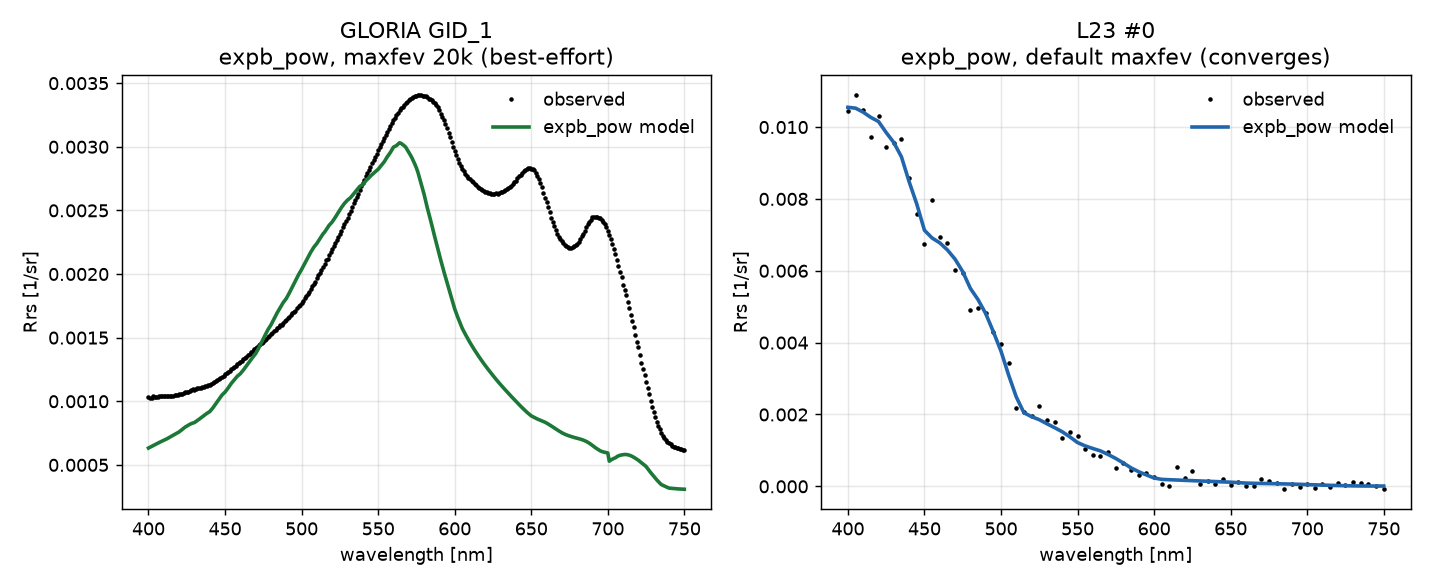
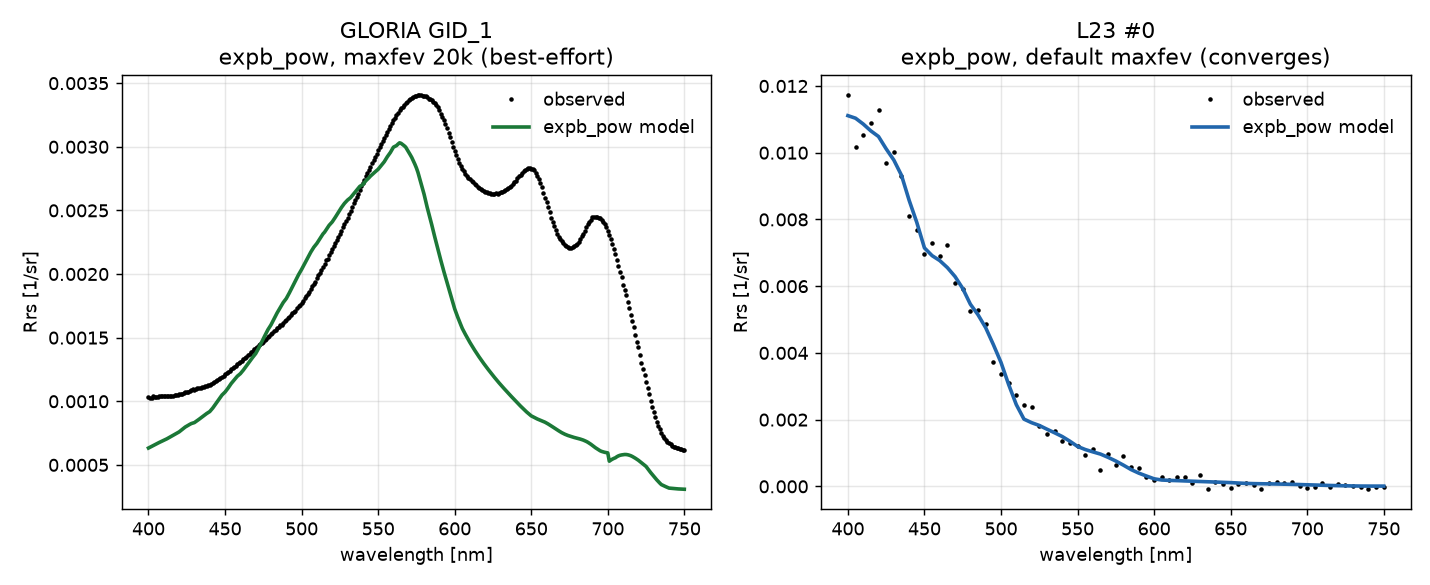
wip

diff --git a/reports/scripts/gloria_fits_report.py b/reports/scripts/gloria_fits_report.py
@@ -90,9 +90,25 @@ def downsample(rec, step_nm=DS_STEP_NM):
                                varRrs=rec.varRrs[keep], Rrs_clean=rc)
 
 
-def chisq_fit(spec, rec, maxfev=None, var_inflate=1.0):
+def fit_sigma(rec, *, var_inflate=1.0, floor_frac=None):
+    """The 1-sigma weight vector for a fit.
+
+    Base is the record's measured ``sqrt(varRrs)`` (optionally ``var_inflate``d).
+    When ``floor_frac`` is given, an **error floor** is applied,
+    ``sigma = max(sigma_measured, floor_frac * |Rrs|)`` -- the same
+    max-of-measured-or-fractional idea as the project's PANGAEA percentage
+    fallback. Every result using ``floor_frac`` is an *inflated-noise* result.
+    """
+    sigma = np.sqrt(np.asarray(rec.varRrs, dtype=float) * var_inflate)
+    if floor_frac is not None:
+        sigma = np.maximum(sigma, floor_frac * np.abs(np.asarray(rec.Rrs, float)))
+    return sigma
+
+
+def chisq_fit(spec, rec, maxfev=None, var_inflate=1.0, floor_frac=None):
     """Least-squares fit mirroring ``ioptics.run.fit_chisq`` but with a tunable
-    ``curve_fit`` ``maxfev`` and an optional ``varRrs`` inflation.
+    ``curve_fit`` ``maxfev``, an optional ``varRrs`` inflation, and an optional
+    fractional error floor (``floor_frac``; inflated-noise runs).
 
     Returns ``(ans, models, rt_dict)`` or raises (curve_fit RuntimeError etc.).
     """
@@ -100,7 +116,7 @@ def chisq_fit(spec, rec, maxfev=None, var_inflate=1.0):
     p0 = run.initial_guess(models, rec)
     bounds = run._prior_bounds(models)
     pf = partial(fit_func, models=models, rt_dict=rt)
-    sigma = np.sqrt(np.asarray(rec.varRrs, dtype=float) * var_inflate)
+    sigma = fit_sigma(rec, var_inflate=var_inflate, floor_frac=floor_frac)
     kw = {}
     if maxfev is not None:
         kw['maxfev'] = maxfev
@@ -117,14 +133,22 @@ def model_rrs(models, rt, ans):
     return np.atleast_1d(np.squeeze(np.asarray(pred, dtype=float)))
 
 
-def reduced_chisq(rec, models, rt, ans):
-    """chi^2 / dof at the fitted parameters, using the record's own varRrs."""
+def reduced_chisq(rec, models, rt, ans, *, floor_frac=None):
+    """chi^2 / dof at the fitted parameters (measured varRrs, or an error floor
+    when ``floor_frac`` is given -- must match the sigma used to fit)."""
     pred = model_rrs(models, rt, ans)
     obs = np.asarray(rec.Rrs, dtype=float)
-    var = np.asarray(rec.varRrs, dtype=float)
-    chi2 = float(np.sum((pred - obs) ** 2 / var))
+    sigma = fit_sigma(rec, floor_frac=floor_frac)
+    chi2 = float(np.sum(((pred - obs) / sigma) ** 2))
     dof = max(obs.size - ans.size, 1)
     return chi2 / dof
+
+
+def median_relerr(rec, models, rt, ans):
+    """Median absolute relative Rrs residual -- a noise-independent misfit."""
+    pred = model_rrs(models, rt, ans)
+    obs = np.asarray(rec.Rrs, dtype=float)
+    return float(np.median(np.abs(pred - obs) / np.maximum(np.abs(obs), 1e-6)))
 
 
 def run_variant(label, specname, recs, *, maxfev=None, var_inflate=1.0,
@@ -223,6 +247,9 @@ def main():
     # ============ CONTINUED EXPLORATION: range vs form (JXP's question) =====
     wide = continued_exploration(grecs)
 
+    # ==== ROUND 3: it is BACKSCATTER + water absorption, not CDOM/NAP =======
+    r3 = round3_backscatter_and_noise(grecs)
+
     # =========================================================== FIGURES ====
     _fig_shape_contrast(g0, l0)
     _fig_peak_hist(g_peaks, l_peaks)
@@ -264,6 +291,18 @@ def main():
     print(f"  wide-prior fits sitting at a bound: {wide['n_atbound']}/{wide['n_wide']}")
     print(f"  good fits (chi2_nu<10): median Rrs-peak = {wide['peak_good']:.0f} nm; "
           f"bad fits: {wide['peak_bad']:.0f} nm")
+
+    print("\n" + "=" * 66)
+    print("ROUND 3: inflated-noise floor (INFLATED-NOISE results)")
+    print("=" * 66)
+    print(f"{'noise model':<20s}{'conv':>8s}{'med chi2_nu':>14s}{'med relerr':>12s}")
+    print("-" * 66)
+    for row in r3['noise_table']:
+        print(f"{row['label']:<20s}{row['ok']:>5d}/{row['n']:<2d}"
+              f"{row['med_chi2']:>14.2e}{row['med_relerr']:>12.2f}")
+    print("-" * 66)
+    print("  Inflating noise lowers chi2_nu (bookkeeping) but does NOT change the")
+    print("  convergence rate or the ~median relative misfit: the misfit is real.")
     print("=" * 66)
     print("Figures written to reports/figures/")
 
@@ -573,6 +612,212 @@ def _fig_residual_localization(per_spec):
     ax2.grid(alpha=0.3)
     fig.tight_layout()
     fig.savefig(os.path.join(_FIGDIR, 'residual_localization.png'), dpi=130)
+    plt.close(fig)
+
+
+# ============ ROUND 3: backscatter / water absorption / noise =============
+# Literature slopes for the CDOM / NAP exponential absorption decay.
+#   S_CDOM ~ 0.0176 nm^-1, S_NAP ~ 0.0123 nm^-1  (Babin et al. 2003, JGR-Oceans)
+#   both a_g, a_d ~ exp(-S (lambda - 440))  (Bricaud, Morel & Prieur 1981, L&O)
+S_CDOM = 0.0176
+S_NAP = 0.0123
+
+
+def _gordon_required_bb(wave, Rrs, a_total):
+    """Invert observed Rrs to the backscatter b_b(lambda) *required* to produce
+    it given the model's total absorption ``a_total`` (Gordon 1988 relation, the
+    same inversion ``ioptics.run.initial_guess`` uses)."""
+    from bing.rt import rrs as bing_rrs
+    Rrs = np.asarray(Rrs, dtype=float)
+    rrs = Rrs / (bing_rrs.A_Rrs + bing_rrs.B_Rrs * Rrs)
+    G1, G2 = bing_rrs.G1_STANDARD, bing_rrs.G2_STANDARD
+    disc = np.clip(G1 * G1 + 4.0 * G2 * rrs, 0.0, None)
+    u = np.clip((-G1 + np.sqrt(disc)) / (2.0 * G2), 1e-3, 1.0 - 1e-3)
+    return u * np.asarray(a_total, float) / (1.0 - u)
+
+
+def _decompose(spec, rec, floor_frac=0.05, maxfev=MAXFEV_BIG):
+    """Best-effort fit (inflated noise) + full IOP decomposition for one record.
+
+    Returns a dict with a_total/a_w/a_ph/a_dg, b_b fitted, b_b required, model
+    and observed Rrs, and the reduced chi^2 / relerr.
+    """
+    ans, models, rt = chisq_fit(spec, rec, maxfev=maxfev, floor_frac=floor_frac)
+    na = models[0].nparam
+    ap = np.atleast_2d(ans)[:, :na]
+    bp = np.atleast_2d(ans)[:, na:]
+    pred, a_tot, bb_tot = bing_eval.calc_Rrs_from_models(
+        models[0], ap, models[1], bp, rt, full_return=True)[:3]
+    a_dg, a_ph = models[0].eval_anw(ap, retsub_comps=True)
+    a_tot = np.squeeze(np.asarray(a_tot, float))
+    return {
+        'wave': rec.wave, 'Rrs_obs': np.asarray(rec.Rrs, float),
+        'Rrs_mod': np.squeeze(np.asarray(pred, float)),
+        'a_tot': a_tot, 'a_w': np.asarray(models[0].a_w, float),
+        'a_ph': np.squeeze(np.asarray(a_ph, float)),
+        'a_dg': np.squeeze(np.asarray(a_dg, float)),
+        'bb_fit': np.squeeze(np.asarray(bb_tot, float)),
+        'bb_req': _gordon_required_bb(rec.wave, rec.Rrs, a_tot),
+        'chi2_nu': reduced_chisq(rec, models, rt, ans, floor_frac=floor_frac),
+        'relerr': median_relerr(rec, models, rt, ans),
+        'obs_id': rec.obs_id,
+        'peak': rec.wave[np.argmax(rec.Rrs)],
+    }
+
+
+def round3_backscatter_and_noise(grecs):
+    """Redo the exploration on the correct physics: CDOM/NAP absorption is ~0 at
+    500-750 nm (widening it cannot move Rrs there); the terms that govern that
+    band are particulate backscatter b_bp, pure-water absorption a_w, and the
+    a_ph 675 nm band. Tests (i) an inflated-noise floor and (ii) an IOP
+    decomposition showing the model runs out of *backscatter* in the red.
+    """
+    spec = registry.get('expb_pow')
+
+    # (i) inflated-noise floor: convergence rate + chi2_nu + true relative misfit
+    noise_table = []
+    for label, ff in [('measured', None), ('5% floor', 0.05),
+                      ('10% floor', 0.10)]:
+        ok, chi2s, rels = 0, [], []
+        for rec in grecs:
+            try:
+                ans, models, rt = chisq_fit(spec, rec, maxfev=MAXFEV_BIG,
+                                            floor_frac=ff)
+                ok += 1
+                chi2s.append(reduced_chisq(rec, models, rt, ans, floor_frac=ff))
+                rels.append(median_relerr(rec, models, rt, ans))
+            except Exception:
+                pass
+        noise_table.append({
+            'label': label, 'ok': ok, 'n': len(grecs),
+            'med_chi2': np.median(chi2s) if chi2s else np.nan,
+            'med_relerr': np.median(rels) if rels else np.nan})
+
+    # (ii) decompositions across the turbidity range
+    decs = []
+    for rec in grecs:
+        try:
+            decs.append(_decompose(spec, rec))
+        except Exception:
+            pass
+    decs.sort(key=lambda d: d['peak'])
+
+    # ---- figures ----
+    _fig_iop_decay(grecs[0])
+    _fig_iop_decomposition(decs)
+    _fig_inflated_noise_examples(decs)
+
+    return {'noise_table': noise_table, 'n_decomp': len(decs)}
+
+
+def _fig_iop_decay(rec):
+    """The kill-shot for the CDOM/NAP hypothesis: a_g, a_d ~ exp(-S(lambda-440))
+    vanish by ~550 nm, while a_w rises steeply in the red and a smooth b_bp is
+    broad -- so 500-750 nm is owned by backscatter and water, not CDOM/NAP.
+    """
+    _, models, _ = run._prepare(registry.get('expb_pow'), rec)
+    w = np.asarray(rec.wave, float)
+    a_w = np.asarray(models[0].a_w, float)
+    a_g = np.exp(-S_CDOM * (w - 440.0))          # normalised to 1 at 440 nm
+    a_d = np.exp(-S_NAP * (w - 440.0))
+    bbp = (w / 550.0) ** (-1.0)                  # illustrative power-law b_bp
+    fig, ax = plt.subplots(figsize=(8, 5))
+    ax.plot(w, a_g, color='#b8860b', lw=2, label=f'a_CDOM ~ exp(-{S_CDOM}(λ-440))')
+    ax.plot(w, a_d, color='#8c510a', lw=2, ls='--',
+            label=f'a_NAP ~ exp(-{S_NAP}(λ-440))')
+    ax.plot(w, a_w / a_w[np.argmin(np.abs(w - 440))], color='#2166ac', lw=2,
+            label='a_water (Pope & Fry 1997), norm@440')
+    ax.plot(w, bbp, color='#1b7837', lw=2, ls=':',
+            label='b_bp ~ (λ/550)^-1 (illustrative)')
+    ax.axvspan(500, 750, color='grey', alpha=0.08)
+    for wl in (550, 650, 700):
+        i = np.argmin(np.abs(w - wl))
+        ax.annotate(f'{100*a_g[i]:.0f}%', (wl, a_g[i]), textcoords='offset points',
+                    xytext=(0, 6), fontsize=8, color='#b8860b', ha='center')
+    ax.set_yscale('log')
+    ax.set_ylim(1e-3, 1e3)
+    ax.set_xlabel('wavelength [nm]')
+    ax.set_ylabel('relative magnitude (log; each norm @ 440 nm)')
+    ax.set_title('Who owns 500-750 nm? CDOM/NAP absorption vanishes;\n'
+                 'water absorption + particulate backscatter dominate')
+    ax.legend(frameon=False, fontsize=8, loc='lower center')
+    ax.grid(alpha=0.3, which='both')
+    fig.tight_layout()
+    fig.savefig(os.path.join(_FIGDIR, 'iop_decay.png'), dpi=130)
+    plt.close(fig)
+
+
+def _fig_iop_decomposition(decs):
+    """For a turbid spectrum: a(lambda) components (a_w owns the red, a_dg ~ 0
+    there) and b_b -- fitted power-law vs the b_b *required* to make the observed
+    green/NIR Rrs. The model runs out of backscatter where a_w is large.
+    """
+    if not decs:
+        return
+    # pick a turbid, green-red-peaked case (peak >= 560 nm) with a real misfit
+    cand = [d for d in decs if d['peak'] >= 560 and d['relerr'] > 0.3]
+    d = cand[len(cand) // 2] if cand else decs[-1]
+    w = d['wave']
+    fig, (ax1, ax2, ax3) = plt.subplots(3, 1, figsize=(8, 10), sharex=True)
+    ax1.plot(w, d['Rrs_obs'], 'k.', ms=3, label='observed')
+    ax1.plot(w, d['Rrs_mod'], color='#b2182b', lw=2, label='model (5% floor)')
+    ax1.axvspan(500, 750, color='grey', alpha=0.07)
+    ax1.set_ylabel('Rrs [1/sr]')
+    ax1.set_title(f"{d['obs_id']} (peak {d['peak']:.0f} nm): model misses "
+                  f"green-red (relerr {d['relerr']:.2f})")
+    ax1.legend(frameon=False, fontsize=8)
+    ax1.grid(alpha=0.3)
+    ax2.plot(w, d['a_tot'], 'k', lw=2, label='a_total')
+    ax2.plot(w, d['a_w'], color='#2166ac', lw=1.8, label='a_water')
+    ax2.plot(w, d['a_ph'], color='#1b7837', lw=1.5, label='a_ph')
+    ax2.plot(w, d['a_dg'], color='#b8860b', lw=1.5, label='a_dg (CDOM+NAP)')
+    ax2.axvspan(500, 750, color='grey', alpha=0.07)
+    ax2.set_yscale('log')
+    ax2.set_ylabel('absorption [1/m]')
+    ax2.set_title('a_dg is negligible across 500-750 nm; a_water owns the red')
+    ax2.legend(frameon=False, fontsize=8, ncol=2)
+    ax2.grid(alpha=0.3, which='both')
+    ax3.plot(w, d['bb_fit'], color='#b2182b', lw=2, label='b_b fitted (power law)')
+    ax3.plot(w, d['bb_req'], color='#762a83', lw=2, ls='--',
+             label='b_b required (invert observed Rrs)')
+    ax3.axvspan(500, 750, color='grey', alpha=0.07)
+    ax3.set_yscale('log')
+    ax3.set_xlabel('wavelength [nm]')
+    ax3.set_ylabel('backscatter [1/m]')
+    ax3.set_title('The wall: required b_b >> fitted power-law b_b in the red')
+    ax3.legend(frameon=False, fontsize=8)
+    ax3.grid(alpha=0.3, which='both')
+    fig.tight_layout()
+    fig.savefig(os.path.join(_FIGDIR, 'iop_decomposition.png'), dpi=130)
+    plt.close(fig)
+
+
+def _fig_inflated_noise_examples(decs):
+    """~4 GLORIA fits (inflated 5% noise floor), clear -> turbid, annotated with
+    reduced chi^2 (inflated) and the noise-independent relative misfit."""
+    if not decs:
+        return
+    n = len(decs)
+    picks = sorted({0, n // 3, 2 * n // 3, n - 1})
+    fig, axes = plt.subplots(2, 2, figsize=(11, 8))
+    for ax, j in zip(axes.ravel(), picks):
+        d = decs[j]
+        ax.plot(d['wave'], d['Rrs_obs'], 'k.', ms=3, label='observed')
+        ax.plot(d['wave'], d['Rrs_mod'], color='#1b7837', lw=2,
+                label='expb_pow (5% floor)')
+        ax.set_title(f"{d['obs_id']} (peak {d['peak']:.0f} nm)  "
+                     f"chi2_nu={d['chi2_nu']:.1f}  relerr={d['relerr']:.2f}",
+                     fontsize=9)
+        ax.set_xlabel('wavelength [nm]')
+        ax.set_ylabel('Rrs [1/sr]')
+        ax.legend(frameon=False, fontsize=8)
+        ax.grid(alpha=0.3)
+    for ax in axes.ravel()[len(picks):]:
+        ax.axis('off')
+    fig.suptitle('Inflated-noise (5% floor) expb_pow fits: clear -> turbid',
+                 fontsize=12)
+    fig.tight_layout()
+    fig.savefig(os.path.join(_FIGDIR, 'inflated_noise_examples.png'), dpi=130)
     plt.close(fig)
 
 

diff --git a/claude_prompts/coding_prompts_stage06.md b/claude_prompts/coding_prompts_stage06.md
@@ -161,6 +161,8 @@ module/addition.
 
 9. **More GLORIA fits.**  I have answered your Task 8 questions; see my responses.  Continue your exploration.  Also add a few example fits to the report.  Log your work.  Use Fable if you can.
 
+10. **More More GLORIA fits.**  I have answered your Task 9 questions; see my responses.  Continue your exploration.  Also add a few example fits to the report.  Log your work.  Use Fable if you can.
+
 ### Q&A
 
 > Open questions for JXP (posed, not self-answered — JXP answers before the next
@@ -433,25 +435,31 @@ module/addition.
   mineral-NAP absorption+backscatter component, or (c) a published turbid-water
   scheme (QAA-turbid / red-NIR two-band)? I'd add it as a new `AlgorithmSpec`
   under `reports/` for testing.
+>A. I'm not sure I follow.  I don't think CDOM/NAP will affect those wavelengths.  If you think you do, find me a reference from the literature that demonstrates this.  Continue to explore this.
 - **NIR window for turbid waters.** The worst spectra rise strongly at
   700–750 nm (one peaks at 750). Extend the fit window past 750 nm for turbid
   GLORIA, or fit turbid GLORIA on a red-NIR sub-window?
+>A. Stick with <750nm
 - **Regime status vocabulary.** OK to classify turbid GLORIA (red-shifted peak /
   high χ²ᵥ) as `out_of_scope` rather than `fit_failed`? (Relatedly, you approved
   `poor_fit` in Task 8 — is `out_of_scope` a *distinct* third status, or should
   turbid GLORIA just be `poor_fit`?)
+>A. Ok, add `out_of_scope` as yet another status.
 - **Noise floor.** GLORIA's measured per-band `varRrs` (~2.3e-8, σ~1.5e-4 sr⁻¹)
   is so tight that even clear-water fits sit several σ/band off. Trust the 1-nm
   measured error, or fit GLORIA with an inflated / error-floor noise model?
+>A.  Hmm..  Ok, let's try the inflated noise model and make sure to clearly state we did so.
 
 **Deferred (Task-8 answers approved, not yet implemented — confirm the plan).**
 - **`maxfev` via `AlgorithmSpec`.** Blocked on a BING change: `bing.fitting.
   chisq_fit.fit` takes no `maxfev` and doesn't reach `curve_fit`'s. I can (a) add
   a `maxfev` kwarg to BING's `chisq_fit.fit` + an `AlgorithmSpec` field, or (b)
   keep it IOPtics-only by having `fit_chisq` call `curve_fit` itself. Which?
+>A. (a)
 - **`poor_fit` status.** A reporting change touching `run`/`evaluate`/`io`/
   `metrics` (threshold policy + filtering). I deferred it pending the regime-flag
   decision above (so `poor_fit` vs `out_of_scope` are designed together).
+>A. Ok
 
 ## Logs
 
